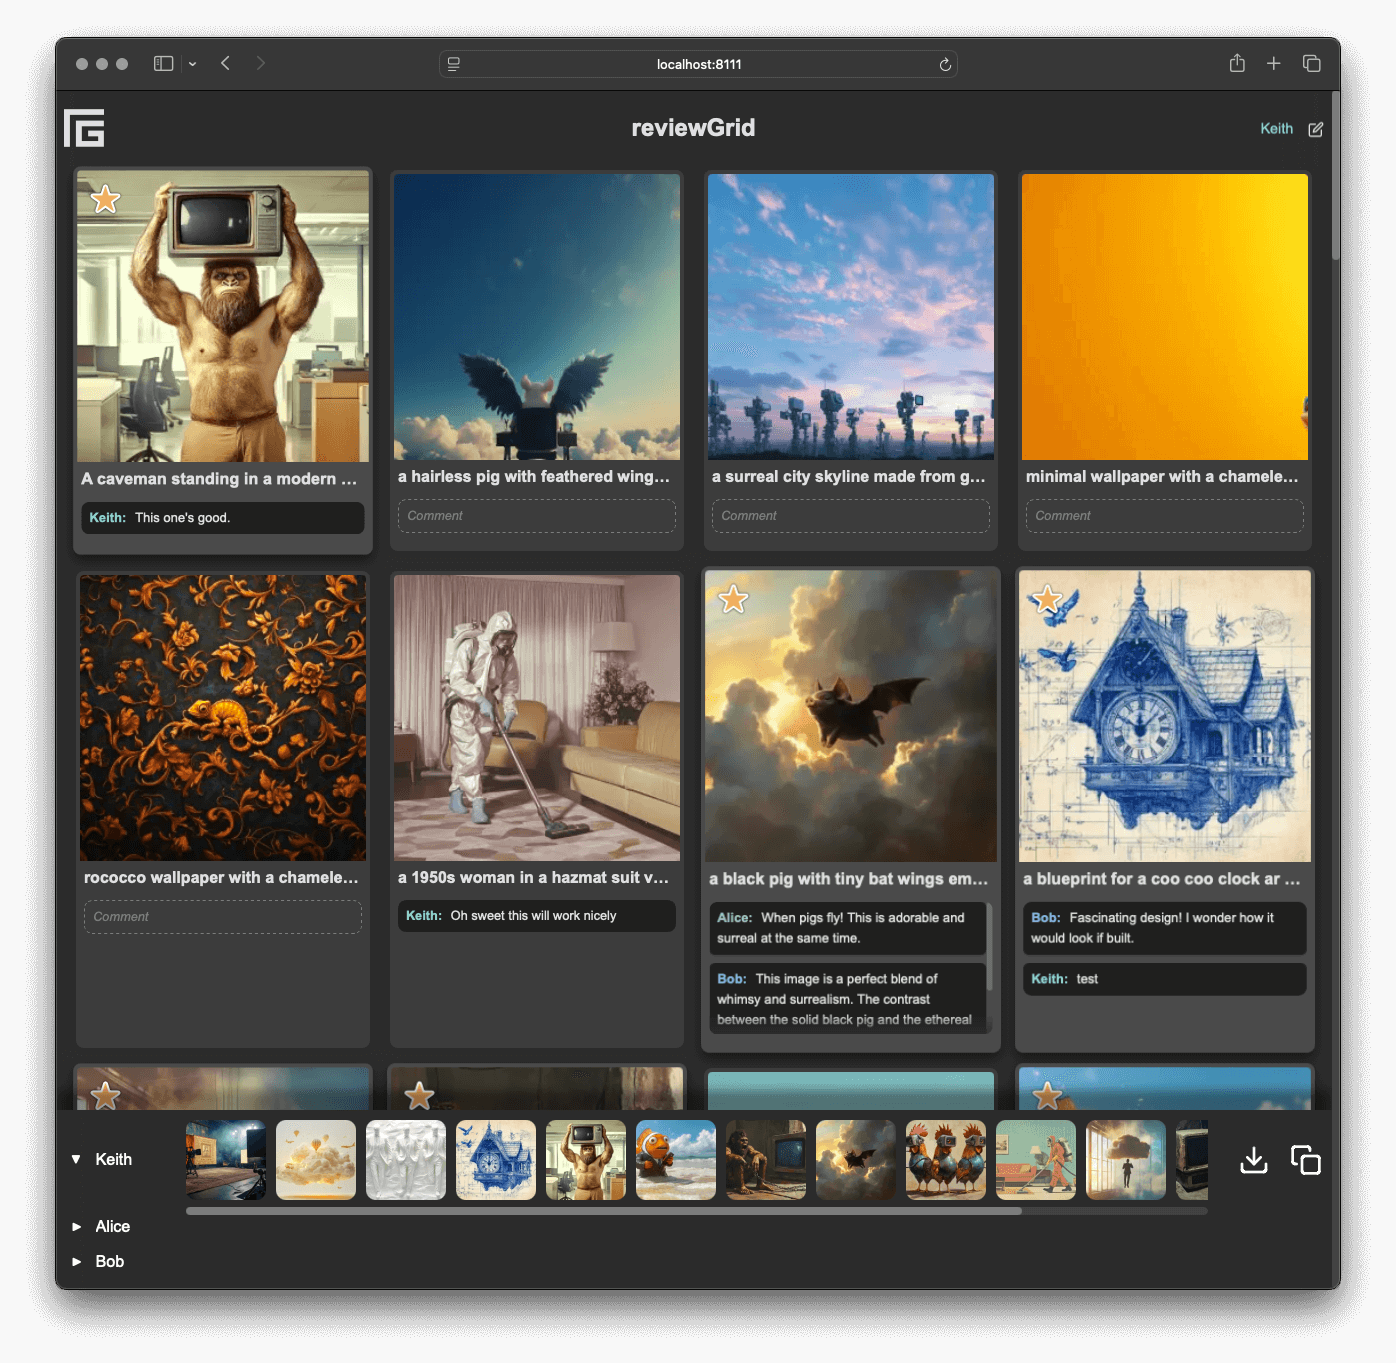
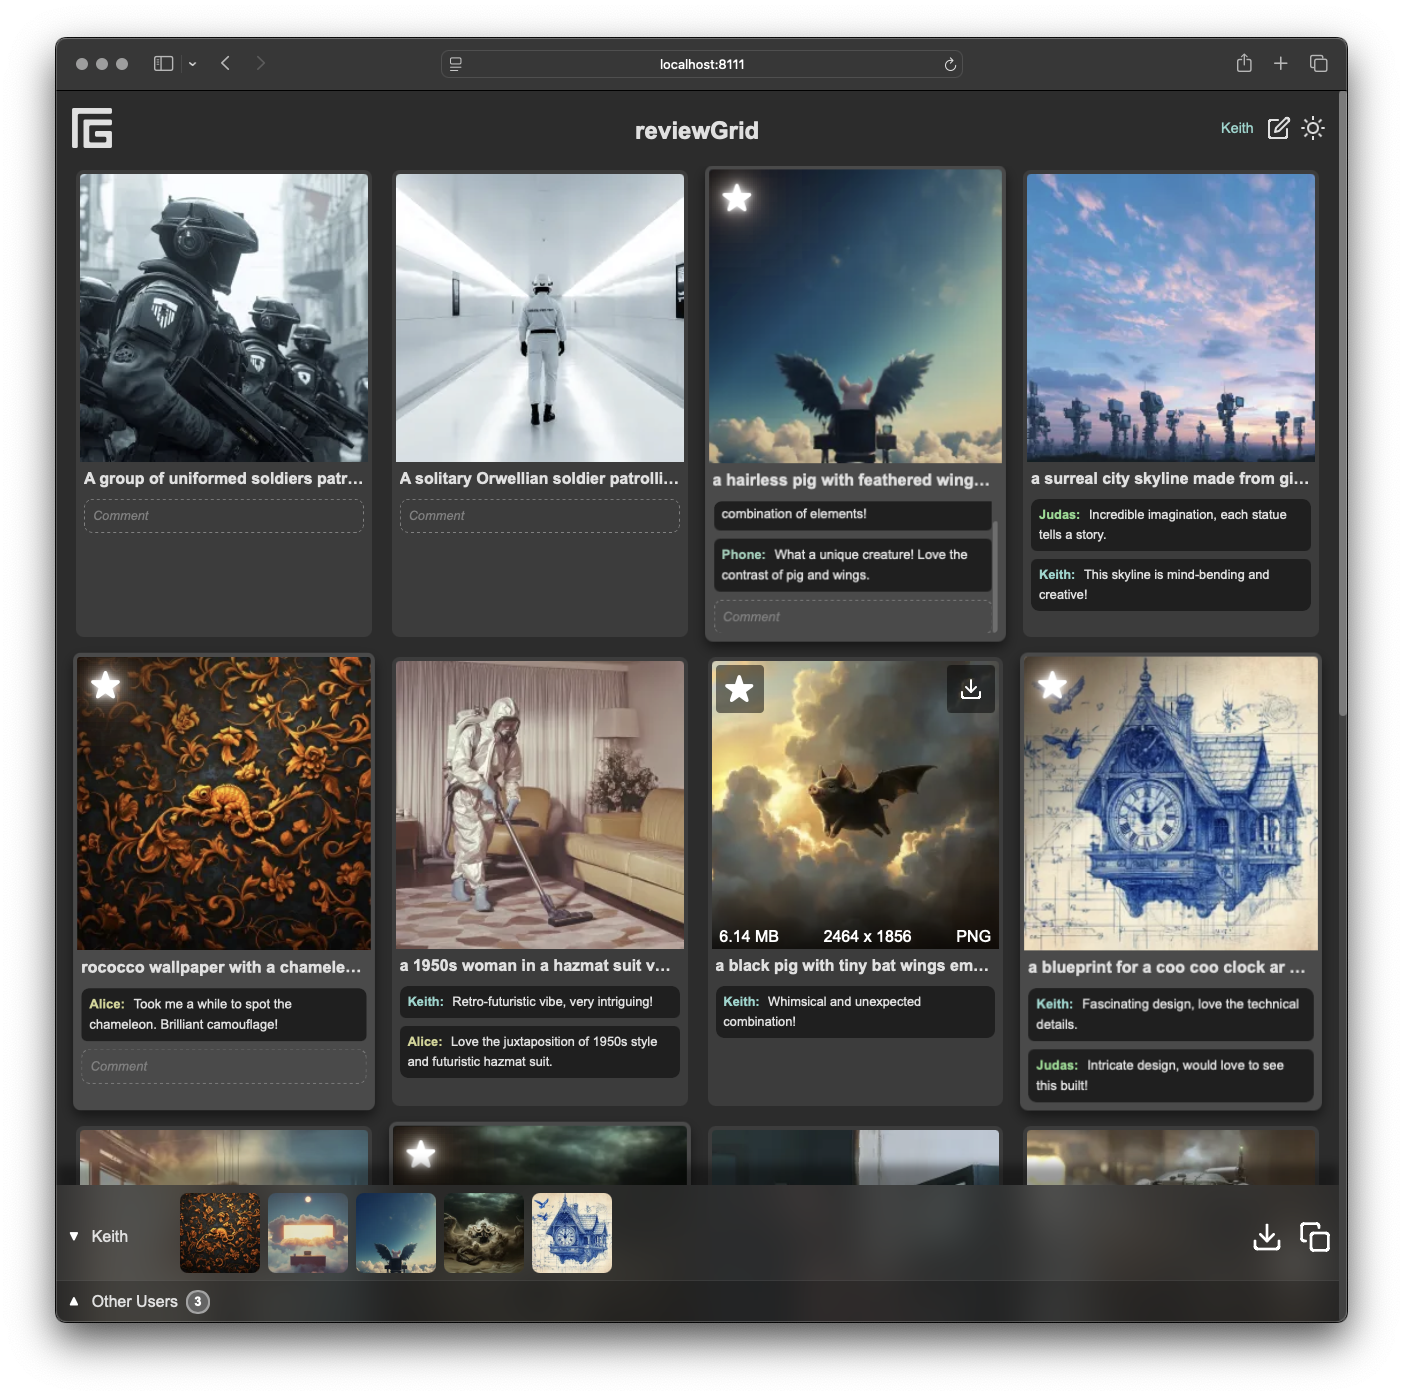
removed redundant code, updated screenshots, fixed other user count

diff --git a/index.php b/index.php
@@ -1846,69 +1846,6 @@ function generateStarredFooter($userStarredImages, $baseUrl, $relativeThumbsUrl,
             updateFooterSpacerHeight();
         }
 
-        // Modify the updateStarredFooters function
-        function updateStarredFooters() {
-            let starredFootersContainer = document.getElementById('starred-footers-container');
-            if (!starredFootersContainer) {
-                starredFootersContainer = document.createElement('div');
-                starredFootersContainer.id = 'starred-footers-container';
-                document.body.appendChild(starredFootersContainer);
-            }
-
-            // Save current states before updating
-            document.querySelectorAll('.starred-footer').forEach(footer => {
-                const userIp = footer.dataset.userIp;
-                footerMinimizedStates[userIp] = footer.classList.contains('minimized');
-            });
-
-            // Update current user's footer
-            const currentUserValidImages = initialStarredImages.filter(image => validImages.includes(image));
-            updateUserFooter(currentUserIp, currentUserValidImages, true);
-
-            // Count other users with valid images
-            const otherUsers = Object.keys(userStarredImages).filter(ip => {
-                return ip !== currentUserIp && userStarredImages[ip].starred_images.some(image => validImages.includes(image));
-            });
-            const otherUsersCount = otherUsers.length;
-
-            // Remove existing other users container and toggle if they exist
-            const existingOtherUsersContainer = document.getElementById('other-users-container');
-            const existingOtherUsersToggle = document.getElementById('other-users-toggle');
-            if (existingOtherUsersContainer) existingOtherUsersContainer.remove();
-            if (existingOtherUsersToggle) existingOtherUsersToggle.remove();
-
-            if (otherUsersCount >= 2) {
-                // Create submenu for multiple other users
-                const otherUsersToggle = document.createElement('div');
-                otherUsersToggle.id = 'other-users-toggle';
-                otherUsersToggle.className = isOtherUsersMinimized ? 'minimized' : '';
-                otherUsersToggle.innerHTML = `
-        <button class="minimize-button" title="Toggle Other Users">${isOtherUsersMinimized ? '▲' : '▼'}</button>
-        <span>Other Users</span>
-        <span class="user-count-badge">${otherUsersCount}</span>`;
-                otherUsersToggle.addEventListener('click', toggleOtherUsers);
-                starredFootersContainer.appendChild(otherUsersToggle);
-
-                const otherUsersContainer = document.createElement('div');
-                otherUsersContainer.id = 'other-users-container';
-                otherUsersContainer.style.display = isOtherUsersMinimized ? 'none' : 'block';
-                starredFootersContainer.appendChild(otherUsersContainer);
-
-                // Update other users' footers in the submenu
-                otherUsers.forEach(userIp => {
-                    const validStarredImages = userStarredImages[userIp].starred_images.filter(image => validImages.includes(image));
-                    updateUserFooter(userIp, validStarredImages, false);
-                });
-            } else if (otherUsersCount === 1) {
-                // Display the single other user's footer without submenu
-                const singleOtherUserIp = otherUsers[0];
-                const validStarredImages = userStarredImages[singleOtherUserIp].starred_images.filter(image => validImages.includes(image));
-                updateUserFooter(singleOtherUserIp, validStarredImages, false);
-            }
-
-            updateFooterSpacerHeight();
-        }
-
         // Modify the updateUserFooter function
         function updateUserFooter(userIp, starredImages, isCurrentUser) {
             const container = isCurrentUser ?
@@ -2471,6 +2408,7 @@ function generateStarredFooter($userStarredImages, $baseUrl, $relativeThumbsUrl,
         let validImages = <?php echo json_encode($validImages); ?>;
 
         function updateStarredFooters() {
+            console.debug("updateStarredFooters called. Current userStarredImages:", JSON.parse(JSON.stringify(userStarredImages)));
             let starredFootersContainer = document.getElementById('starred-footers-container');
             if (!starredFootersContainer) {
                 starredFootersContainer = document.createElement('div');
@@ -2490,9 +2428,17 @@ function generateStarredFooter($userStarredImages, $baseUrl, $relativeThumbsUrl,
 
             // Count other users with valid images
             const otherUsers = Object.keys(userStarredImages).filter(ip => {
-                return ip !== currentUserIp && userStarredImages[ip].starred_images.some(image => validImages.includes(image));
+                if (ip === currentUserIp) return false;
+                const userImages = userStarredImages[ip].starred_images;
+                const validUserImages = Array.isArray(userImages) 
+                    ? userImages.filter(image => validImages.includes(image))
+                    : Object.values(userImages).filter(image => validImages.includes(image));
+                console.debug(`User ${ip}: validUserImages=${JSON.stringify(validUserImages)}`);
+                return validUserImages.length > 0;
             });
+            console.debug("Filtered otherUsers:", otherUsers);
             const otherUsersCount = otherUsers.length;
+            console.debug("otherUsersCount:", otherUsersCount);
 
             // Remove existing other users container and toggle if they exist
             const existingOtherUsersContainer = document.getElementById('other-users-container');
@@ -2500,7 +2446,7 @@ function generateStarredFooter($userStarredImages, $baseUrl, $relativeThumbsUrl,
             if (existingOtherUsersContainer) existingOtherUsersContainer.remove();
             if (existingOtherUsersToggle) existingOtherUsersToggle.remove();
 
-            if (otherUsersCount >= 2) {
+            if (otherUsersCount > 0) {
                 // Create submenu for multiple other users
                 const otherUsersToggle = document.createElement('div');
                 otherUsersToggle.id = 'other-users-toggle';
@@ -2520,14 +2466,12 @@ function generateStarredFooter($userStarredImages, $baseUrl, $relativeThumbsUrl,
 
                 // Update other users' footers in the submenu
                 otherUsers.forEach(userIp => {
-                    const validStarredImages = userStarredImages[userIp].starred_images.filter(image => validImages.includes(image));
+                    const userImages = userStarredImages[userIp].starred_images;
+                    const validStarredImages = Array.isArray(userImages)
+                        ? userImages.filter(image => validImages.includes(image))
+                        : Object.values(userImages).filter(image => validImages.includes(image));
                     updateUserFooter(userIp, validStarredImages, false);
                 });
-            } else if (otherUsersCount === 1) {
-                // Display the single other user's footer without submenu
-                const singleOtherUserIp = otherUsers[0];
-                const validStarredImages = userStarredImages[singleOtherUserIp].starred_images.filter(image => validImages.includes(image));
-                updateUserFooter(singleOtherUserIp, validStarredImages, false);
             }
 
             updateFooterSpacerHeight();
@@ -2673,6 +2617,7 @@ function generateStarredFooter($userStarredImages, $baseUrl, $relativeThumbsUrl,
         }
 
         function updateUI(data) {
+            console.debug("updateUI called with data:", JSON.parse(JSON.stringify(data)));
             const allComments = {};
             Object.keys(data).forEach(userIp => {
                 if (data[userIp].comments) {
@@ -2703,6 +2648,7 @@ function generateStarredFooter($userStarredImages, $baseUrl, $relativeThumbsUrl,
                         initialStarredImages.push(...data[userIp].starred_images);
                         updateStarredFooters();
                     } else {
+                        console.debug(`Updating starred images for user ${userIp}:`, data[userIp].starred_images);
                         updateOtherUserStarredImages(userIp, data[userIp].starred_images);
                     }
                 }
@@ -2747,9 +2693,12 @@ function generateStarredFooter($userStarredImages, $baseUrl, $relativeThumbsUrl,
         }
 
         function updateOtherUserStarredImages(userIp, starredImages) {
-            console.debug("Updating starred images for user:", userIp);
+            console.debug("Updating starred images for user:", userIp, "Images:", starredImages);
             const userFooter = document.querySelector(`.starred-footer[data-user-ip="${userIp}"]`);
             const wasMinimized = footerMinimizedStates[userIp] !== undefined ? footerMinimizedStates[userIp] : true;
+
+            // Ensure starredImages is an array
+            starredImages = Array.isArray(starredImages) ? starredImages : [];
 
             if (userFooter) {
                 const starredList = userFooter.querySelector('.starred-list');
@@ -2771,6 +2720,7 @@ function generateStarredFooter($userStarredImages, $baseUrl, $relativeThumbsUrl,
                 userStarredImages[userIp] = {};
             }
             userStarredImages[userIp].starred_images = starredImages;
+            console.debug("Updated userStarredImages:", JSON.parse(JSON.stringify(userStarredImages)));
 
             // Preserve the minimized state
             const updatedFooter = document.querySelector(`.starred-footer[data-user-ip="${userIp}"]`);
